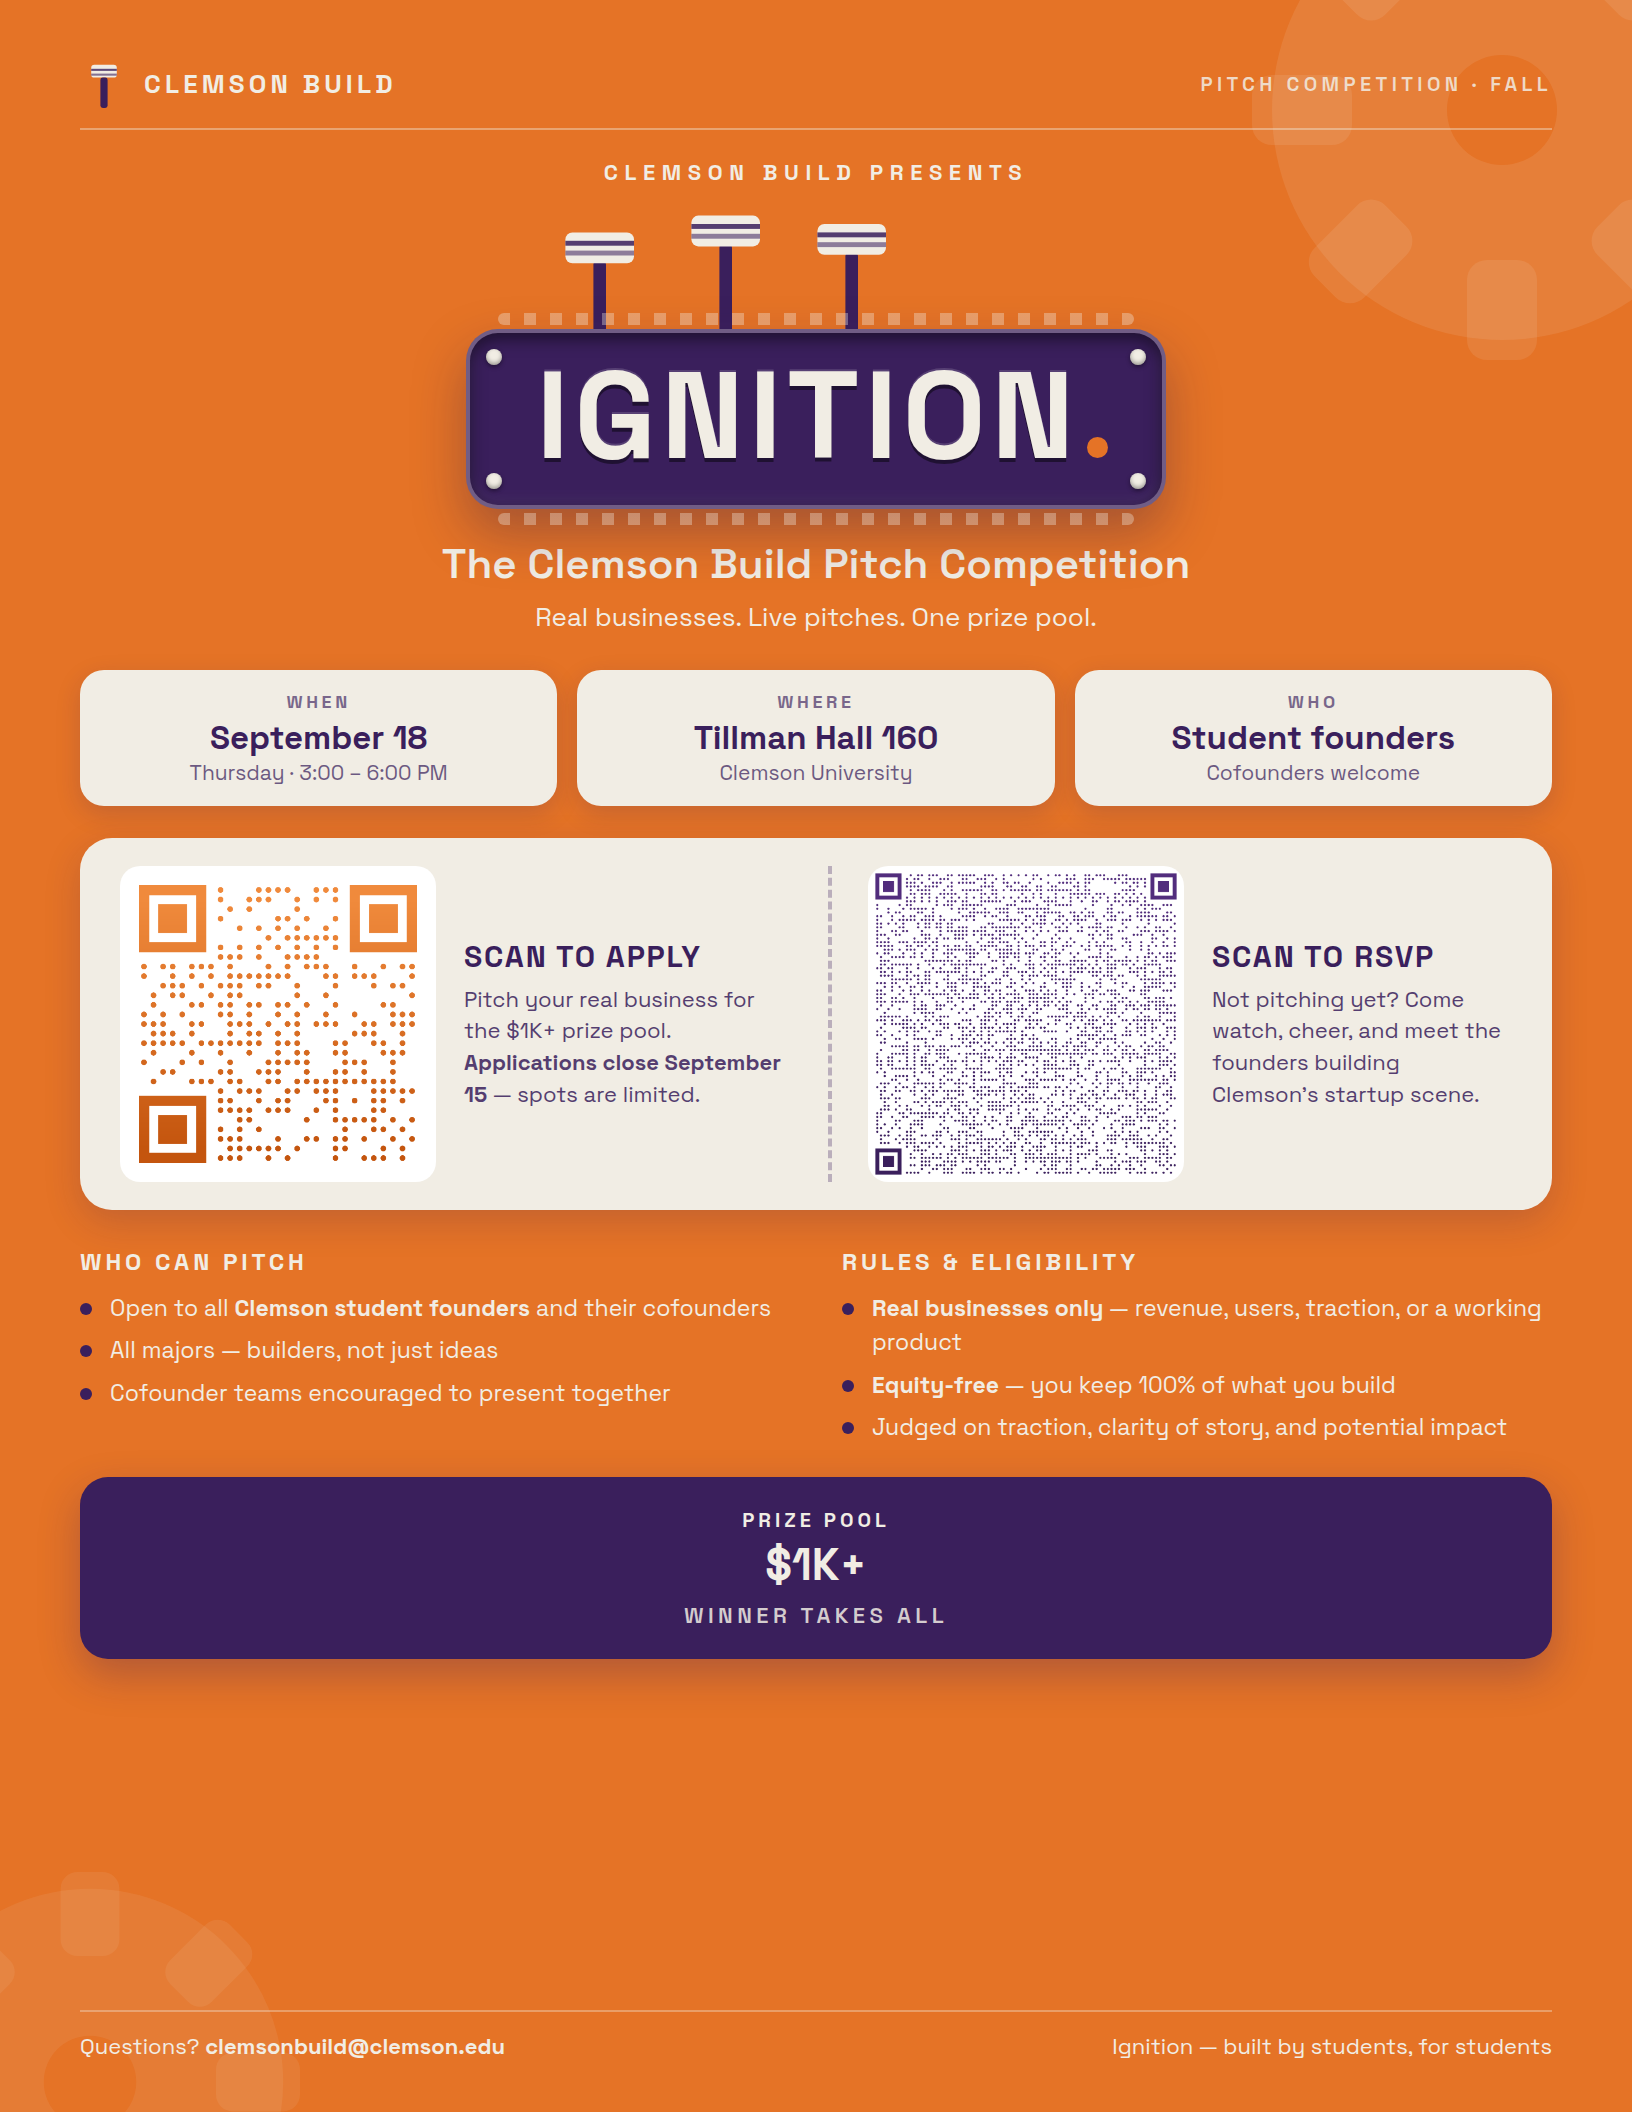
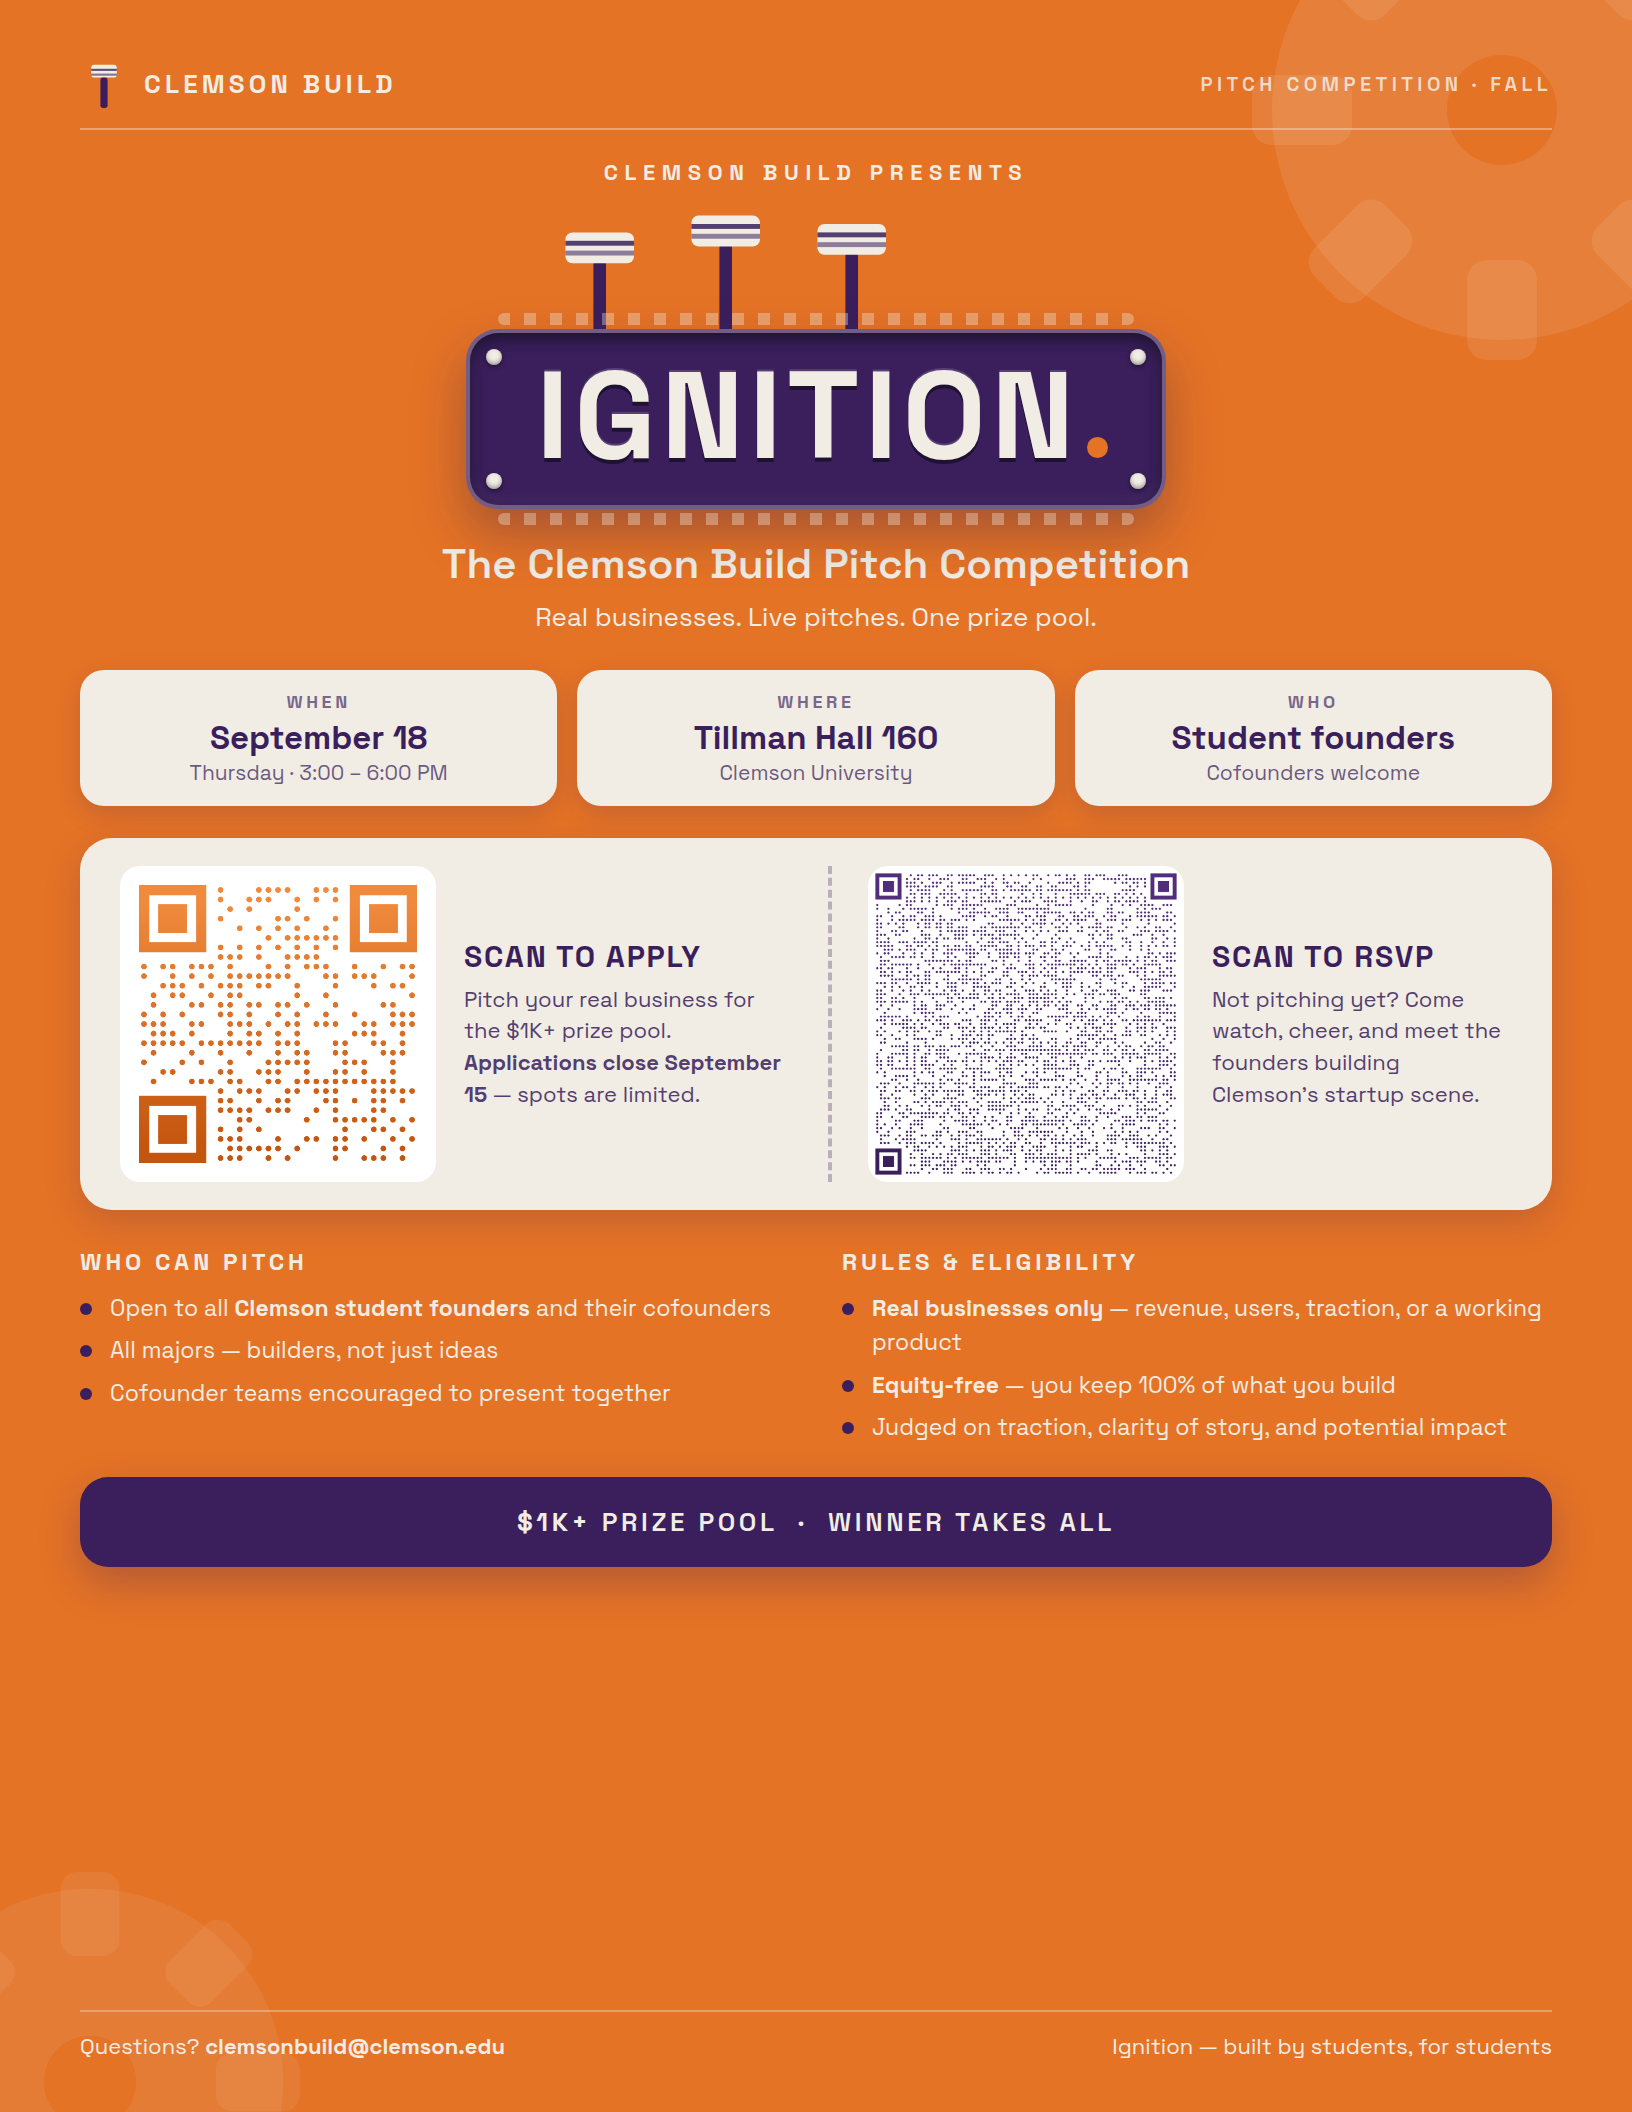
Flyer prize strip: single line — $1K+ Prize Pool · Winner Takes All
Collapses the three stacked lines into one centered uppercase line.
Re-rendered flyer-print.png.

Changed region(s): [[0.0312, 0.7188, 0.9688, 0.8125]]

diff --git a/flyer/flyer.html b/flyer/flyer.html
@@ -161,16 +161,15 @@
     margin-top: 16px;
     background: var(--purple);
     border-radius: 14px;
-    padding: 15px 20px;
+    padding: 14px 20px;
     display: flex; justify-content: center; text-align: center;
     box-shadow: 0 8px 20px rgba(58,31,92,0.3);
   }
-  .prize .label { font-size: 10px; letter-spacing: 0.2em; text-transform: uppercase; color: var(--beige); font-weight: 700; }
-  .prize .amount { font-size: 22px; font-weight: 700; color: var(--beige); margin-top: 2px; }
-  .prize .takes {
-    font-size: 11px; letter-spacing: 0.2em; text-transform: uppercase;
-    color: rgba(241,237,228,0.85); margin-top: 4px; font-weight: 600;
+  .prize-line {
+    font-size: 13px; letter-spacing: 0.14em; text-transform: uppercase;
+    color: var(--beige); font-weight: 600; white-space: nowrap;
   }
+  .prize-line strong { font-weight: 700; }
 
   /* ---------- Footer ---------- */
   footer {
@@ -257,11 +256,7 @@
       </div>
 
       <div class="prize">
-        <div>
-          <div class="label">Prize Pool</div>
-          <div class="amount">$1K+</div>
-          <div class="takes">Winner Takes All</div>
-        </div>
+        <p class="prize-line"><strong>$1K+</strong> Prize Pool&nbsp;&nbsp;·&nbsp;&nbsp;Winner Takes All</p>
       </div>
 
       <footer>
